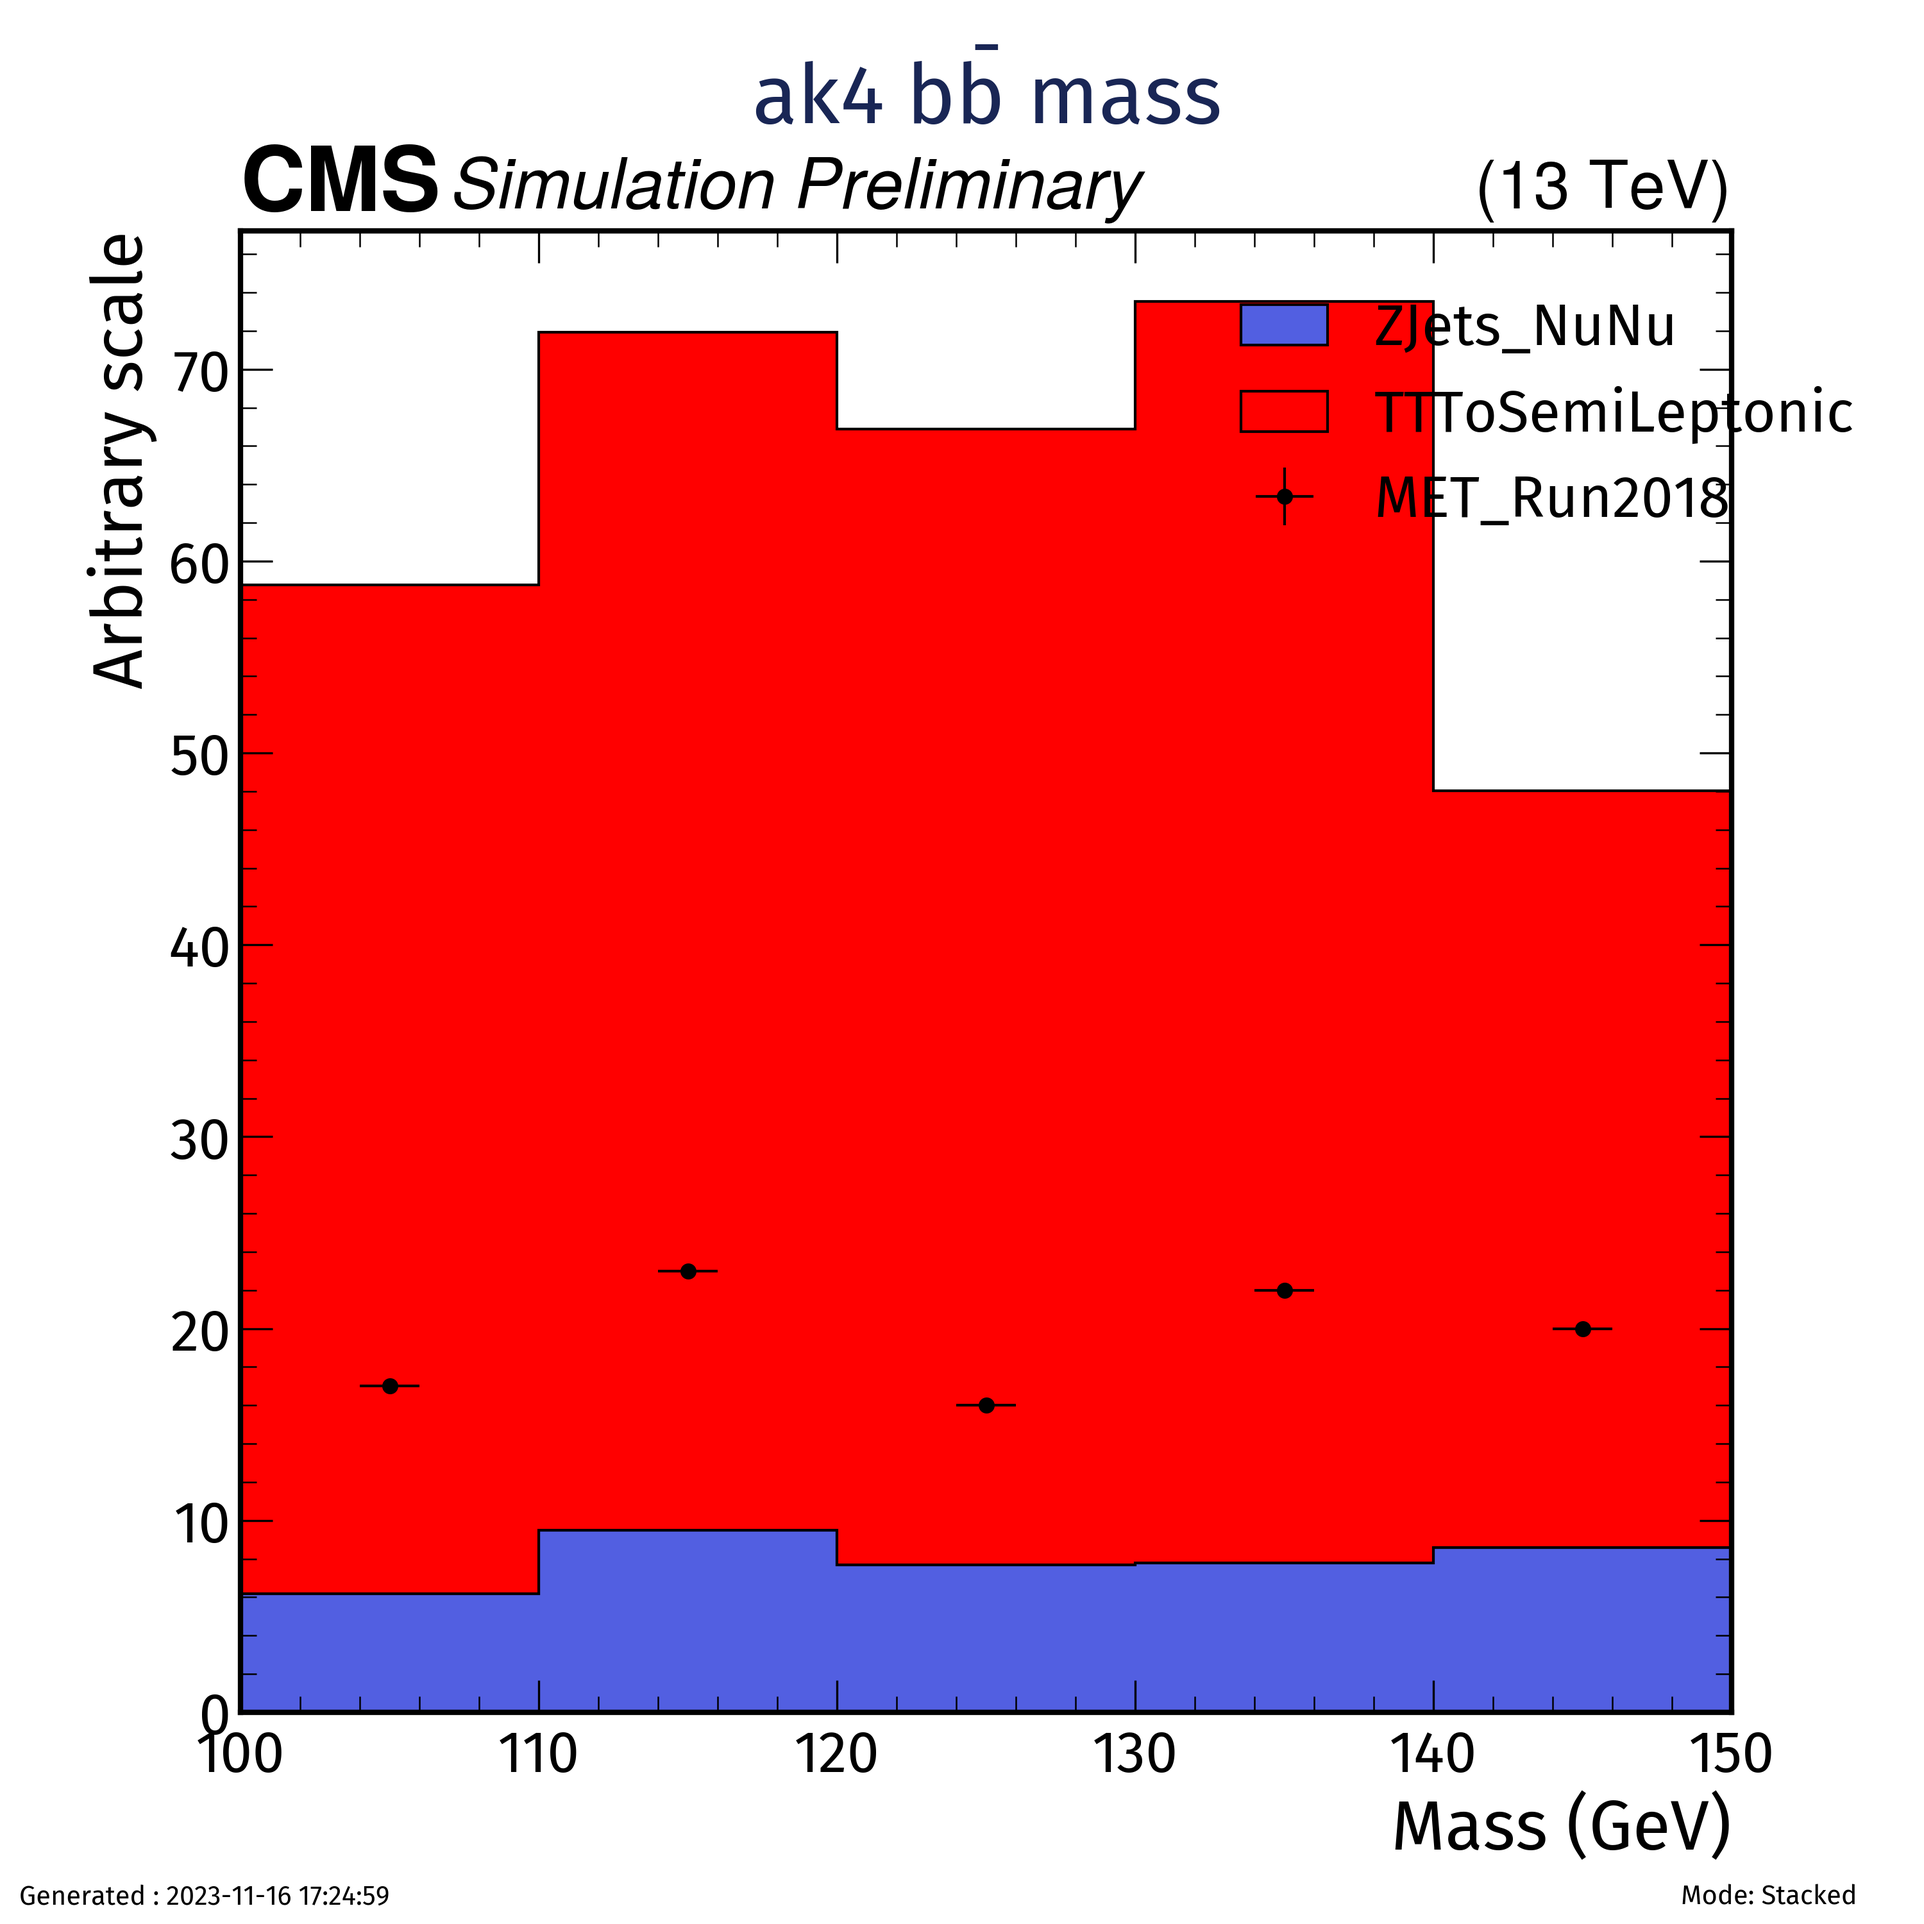
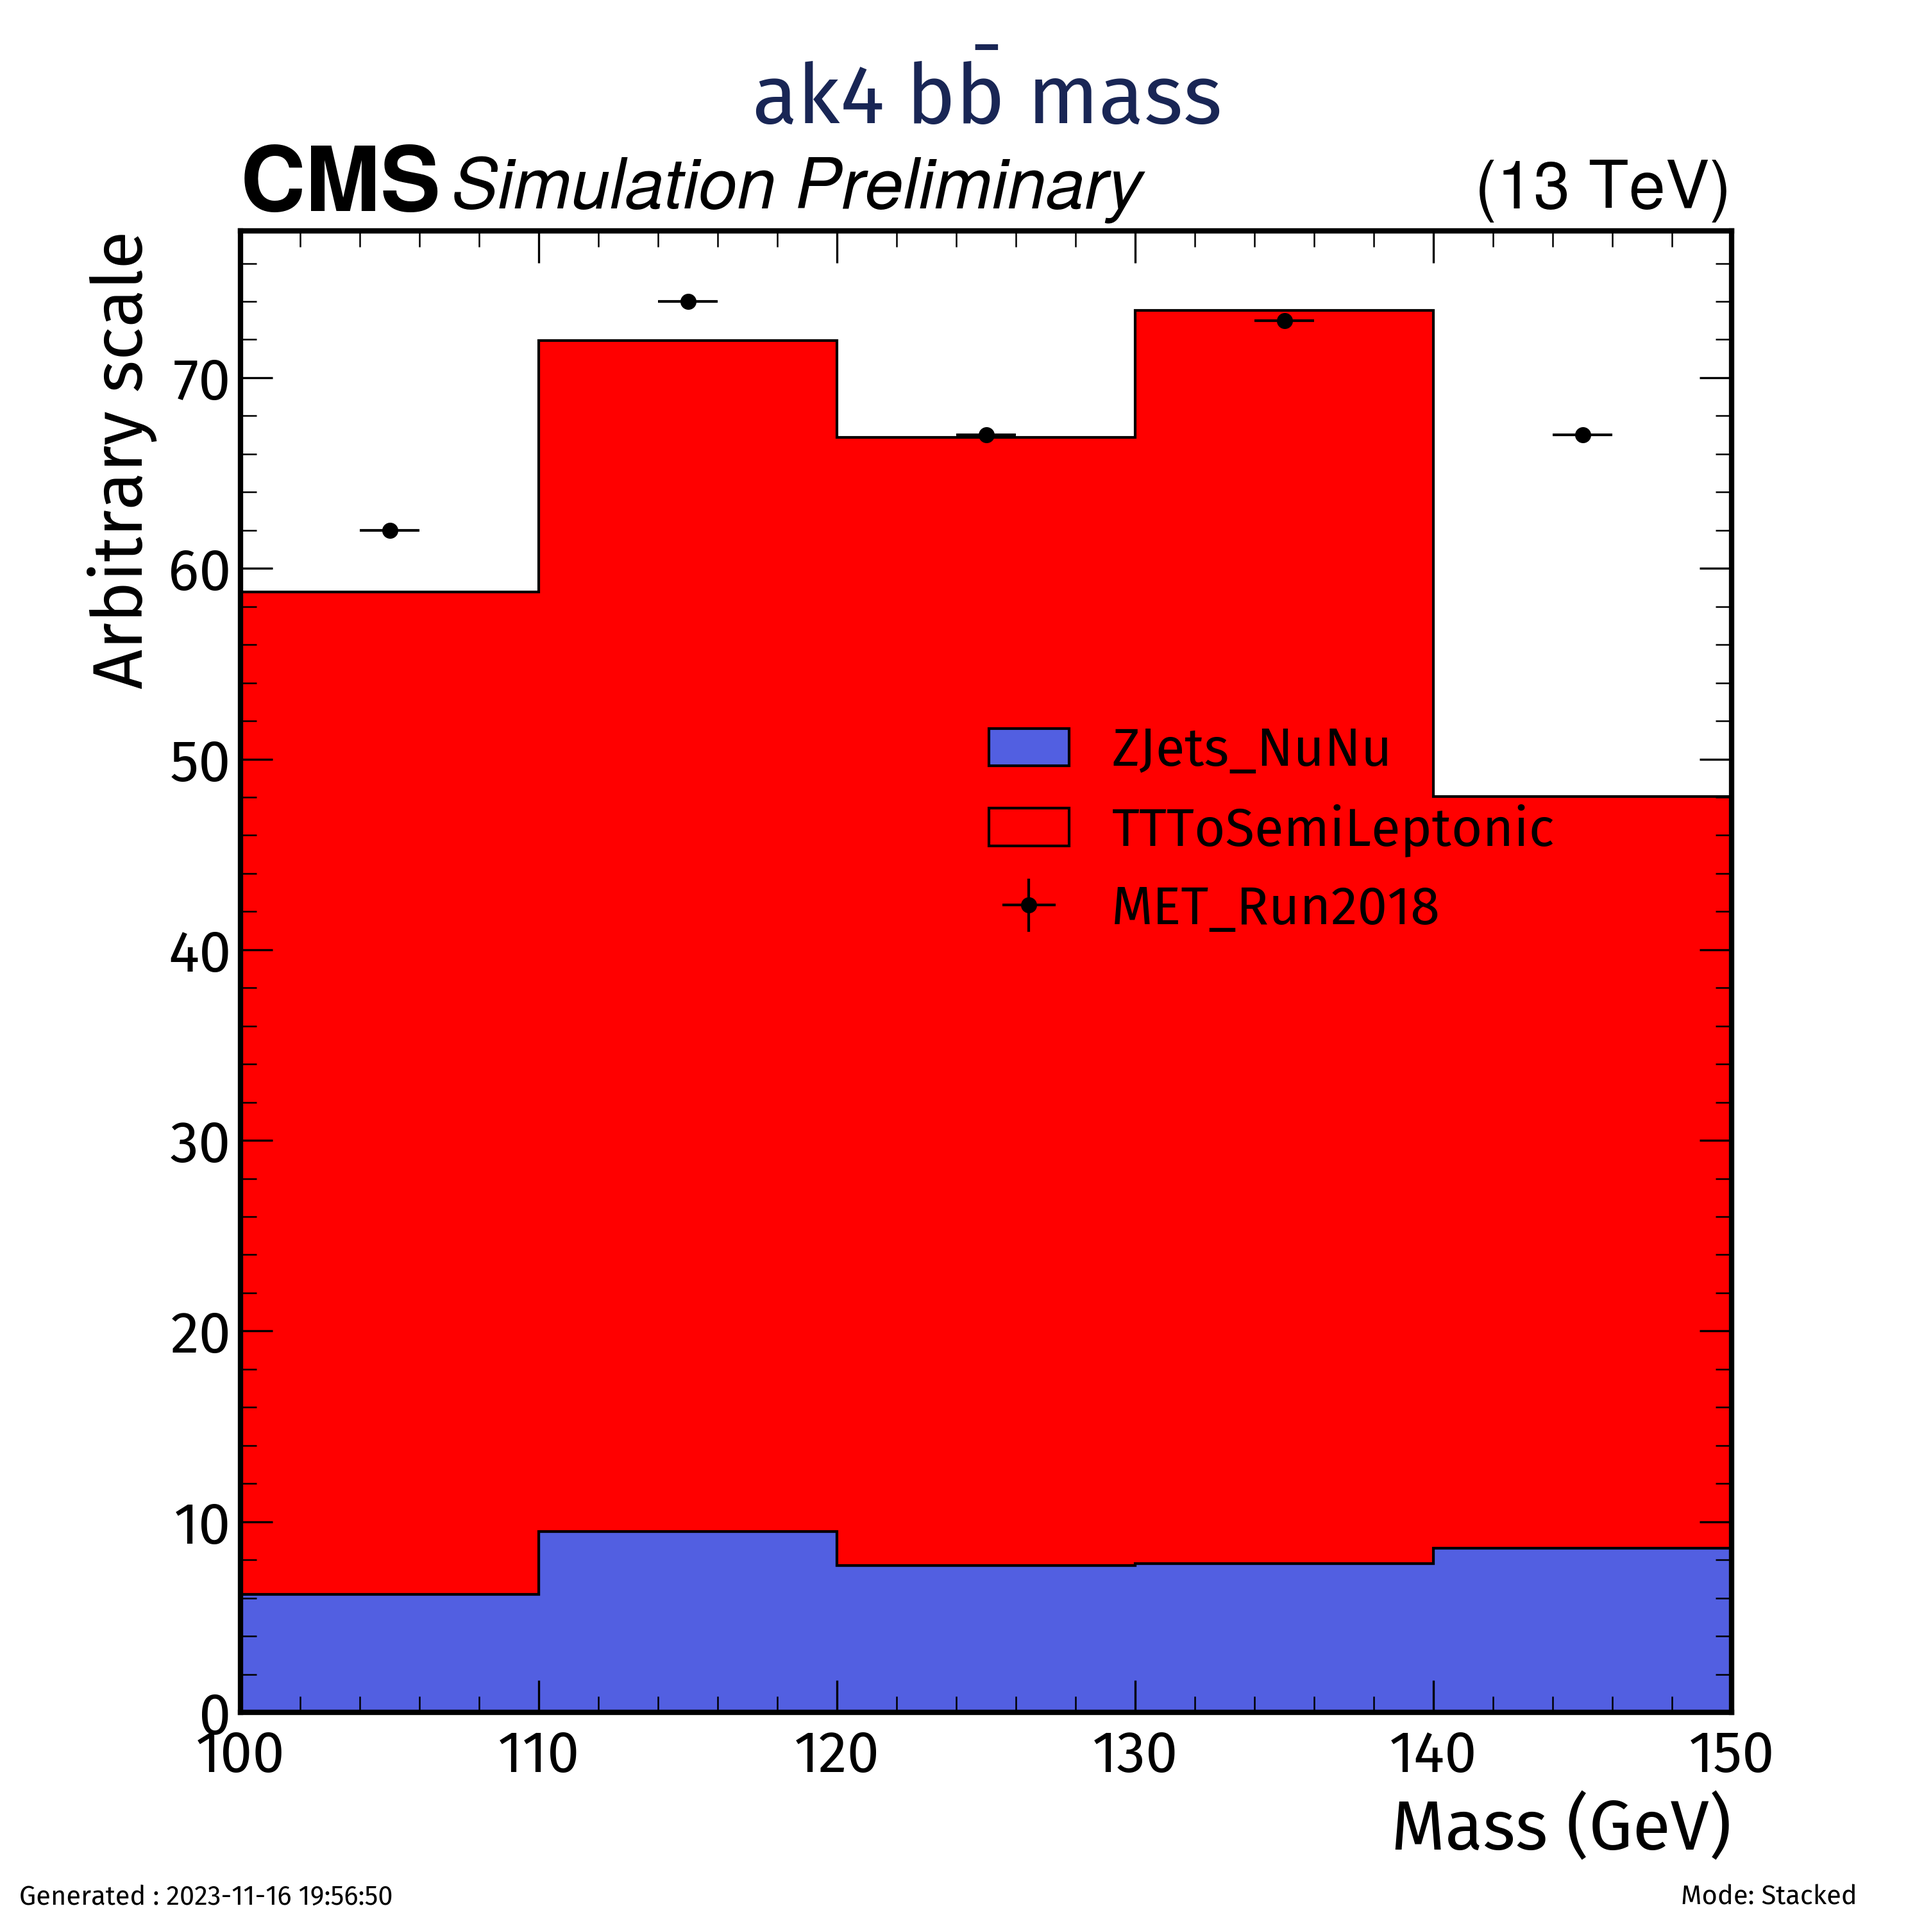
Automated Commit

diff --git a/Backgrounds/plotter_SR_Resolved_Backgrounds.py b/Backgrounds/plotter_SR_Resolved_Backgrounds.py
@@ -299,7 +299,7 @@ def combined_plot_manual(Output,norm = False , xsec = False):
     #plt.yscale("log")
     fig.text(0.01,0.01,"Generated : "+get_timestamp(), fontsize = "10")
     fig.text(0.87,0.01," Mode: Stacked", fontsize = "10")
-    fig.legend(loc= (0.63,.71))
+    fig.legend(prop={"size":20}, loc= (0.50,0.50))
     #fig.legend(loc=1)
     plotname = f"SR_Resolved_Backgrounds_dijet_mass_Combined.png"
     fig.savefig(plotname, dpi=300)
@@ -356,7 +356,7 @@ def plotcutflow(parent):
         plt.xlim([1,nbins+1])
         plt.xticks(np.arange(1,nbins+1,1))
         ax.set_title(f"{key} cutflow",pad=35,  fontsize= "20", color="#192655")
-        fig.legend(loc= (0.57,0.64))
+        fig.legend(prop={"size":20},loc= (0.57,0.64) )
         plt.yscale("log")
         fig.text(0.01,0.01,"Generated : "+get_timestamp(), fontsize = "10")
         #fig.text(0.87,0.01," Mode: Overlayed", fontsize = "10")
